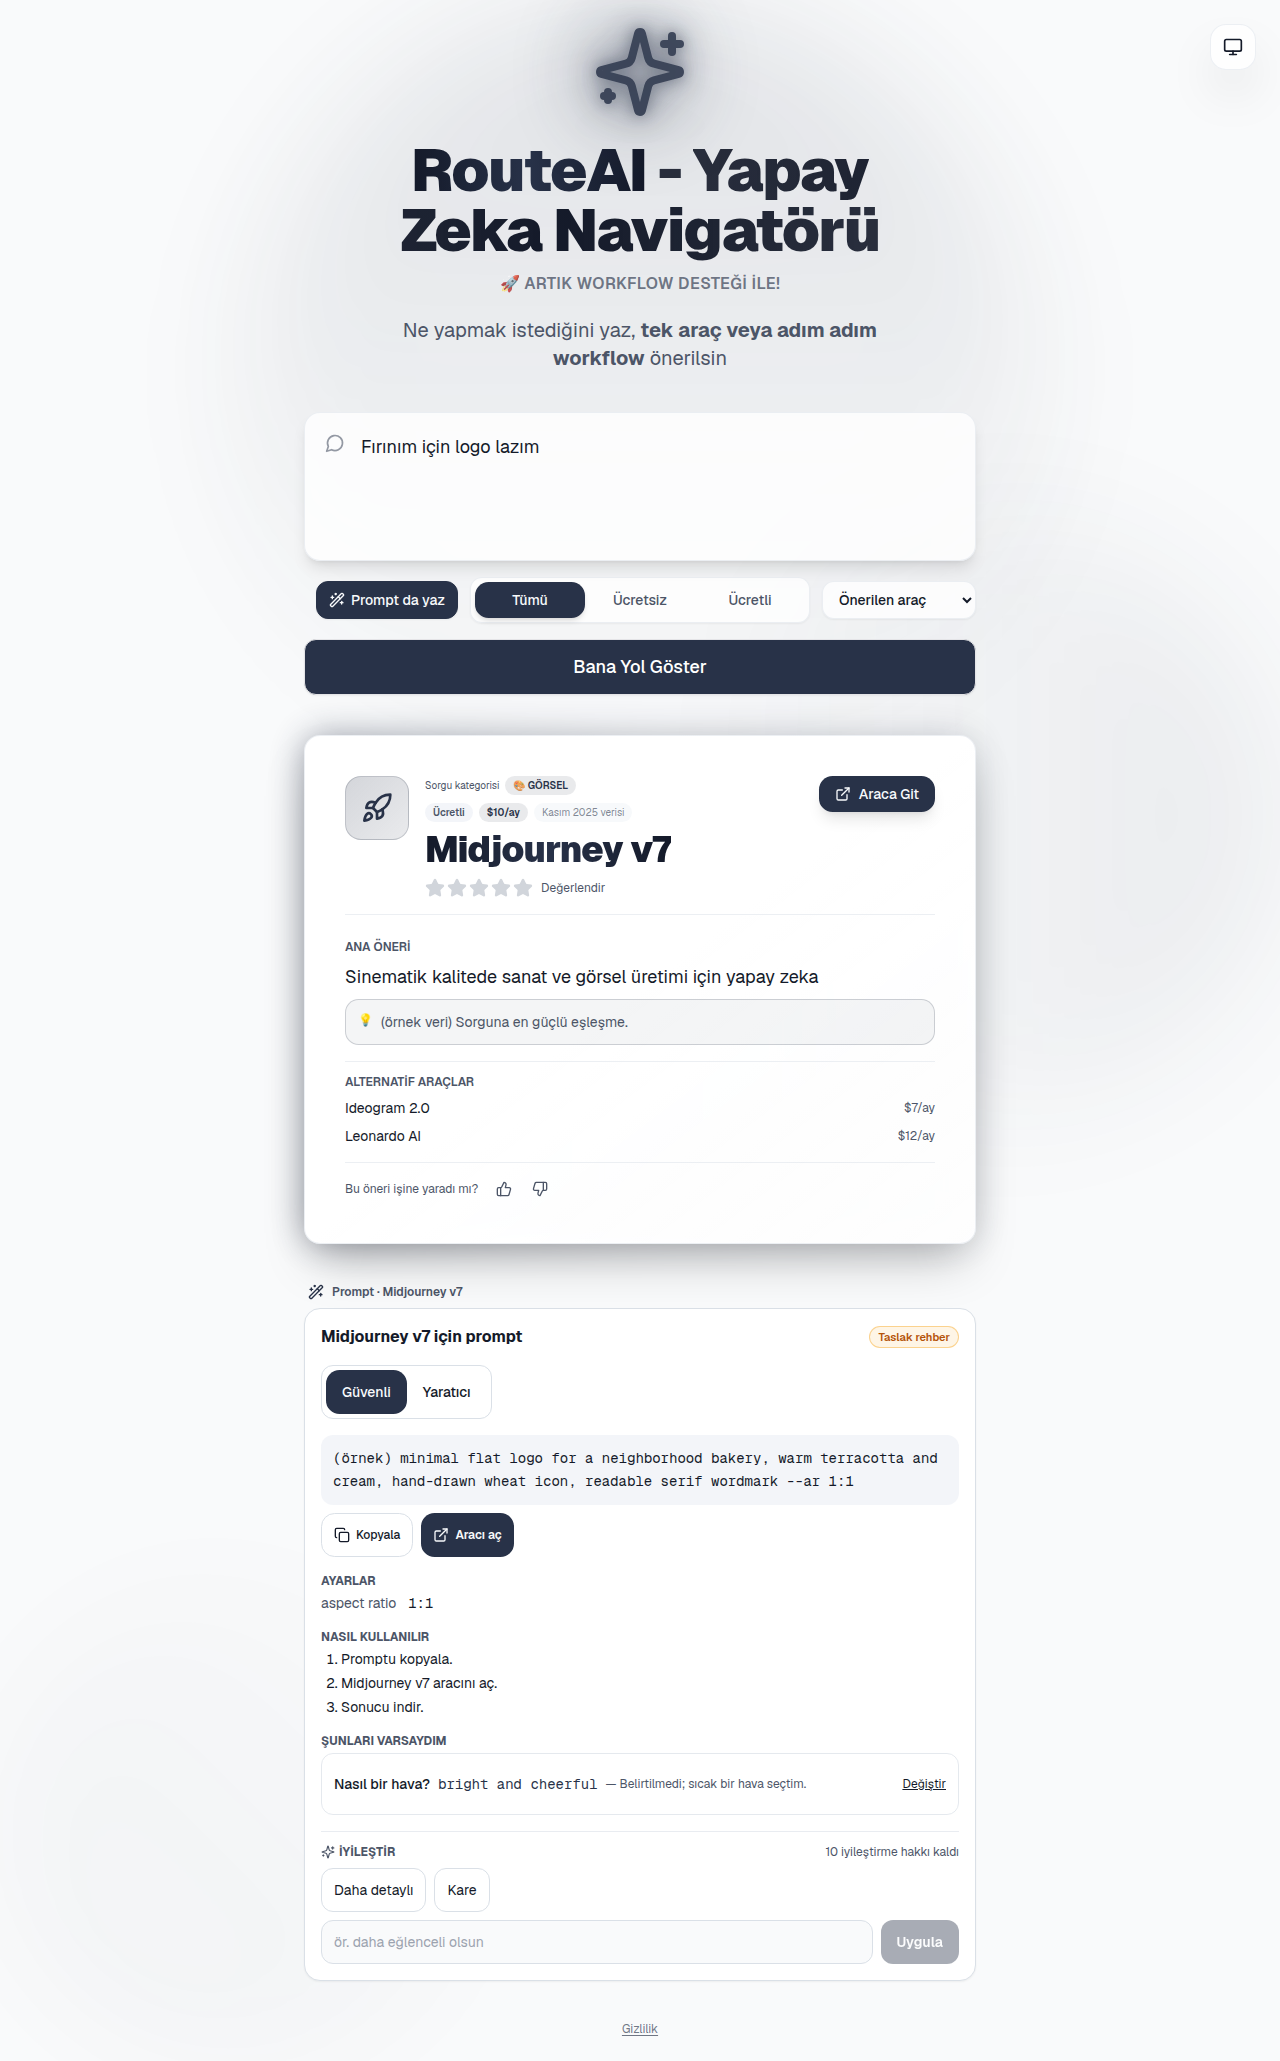
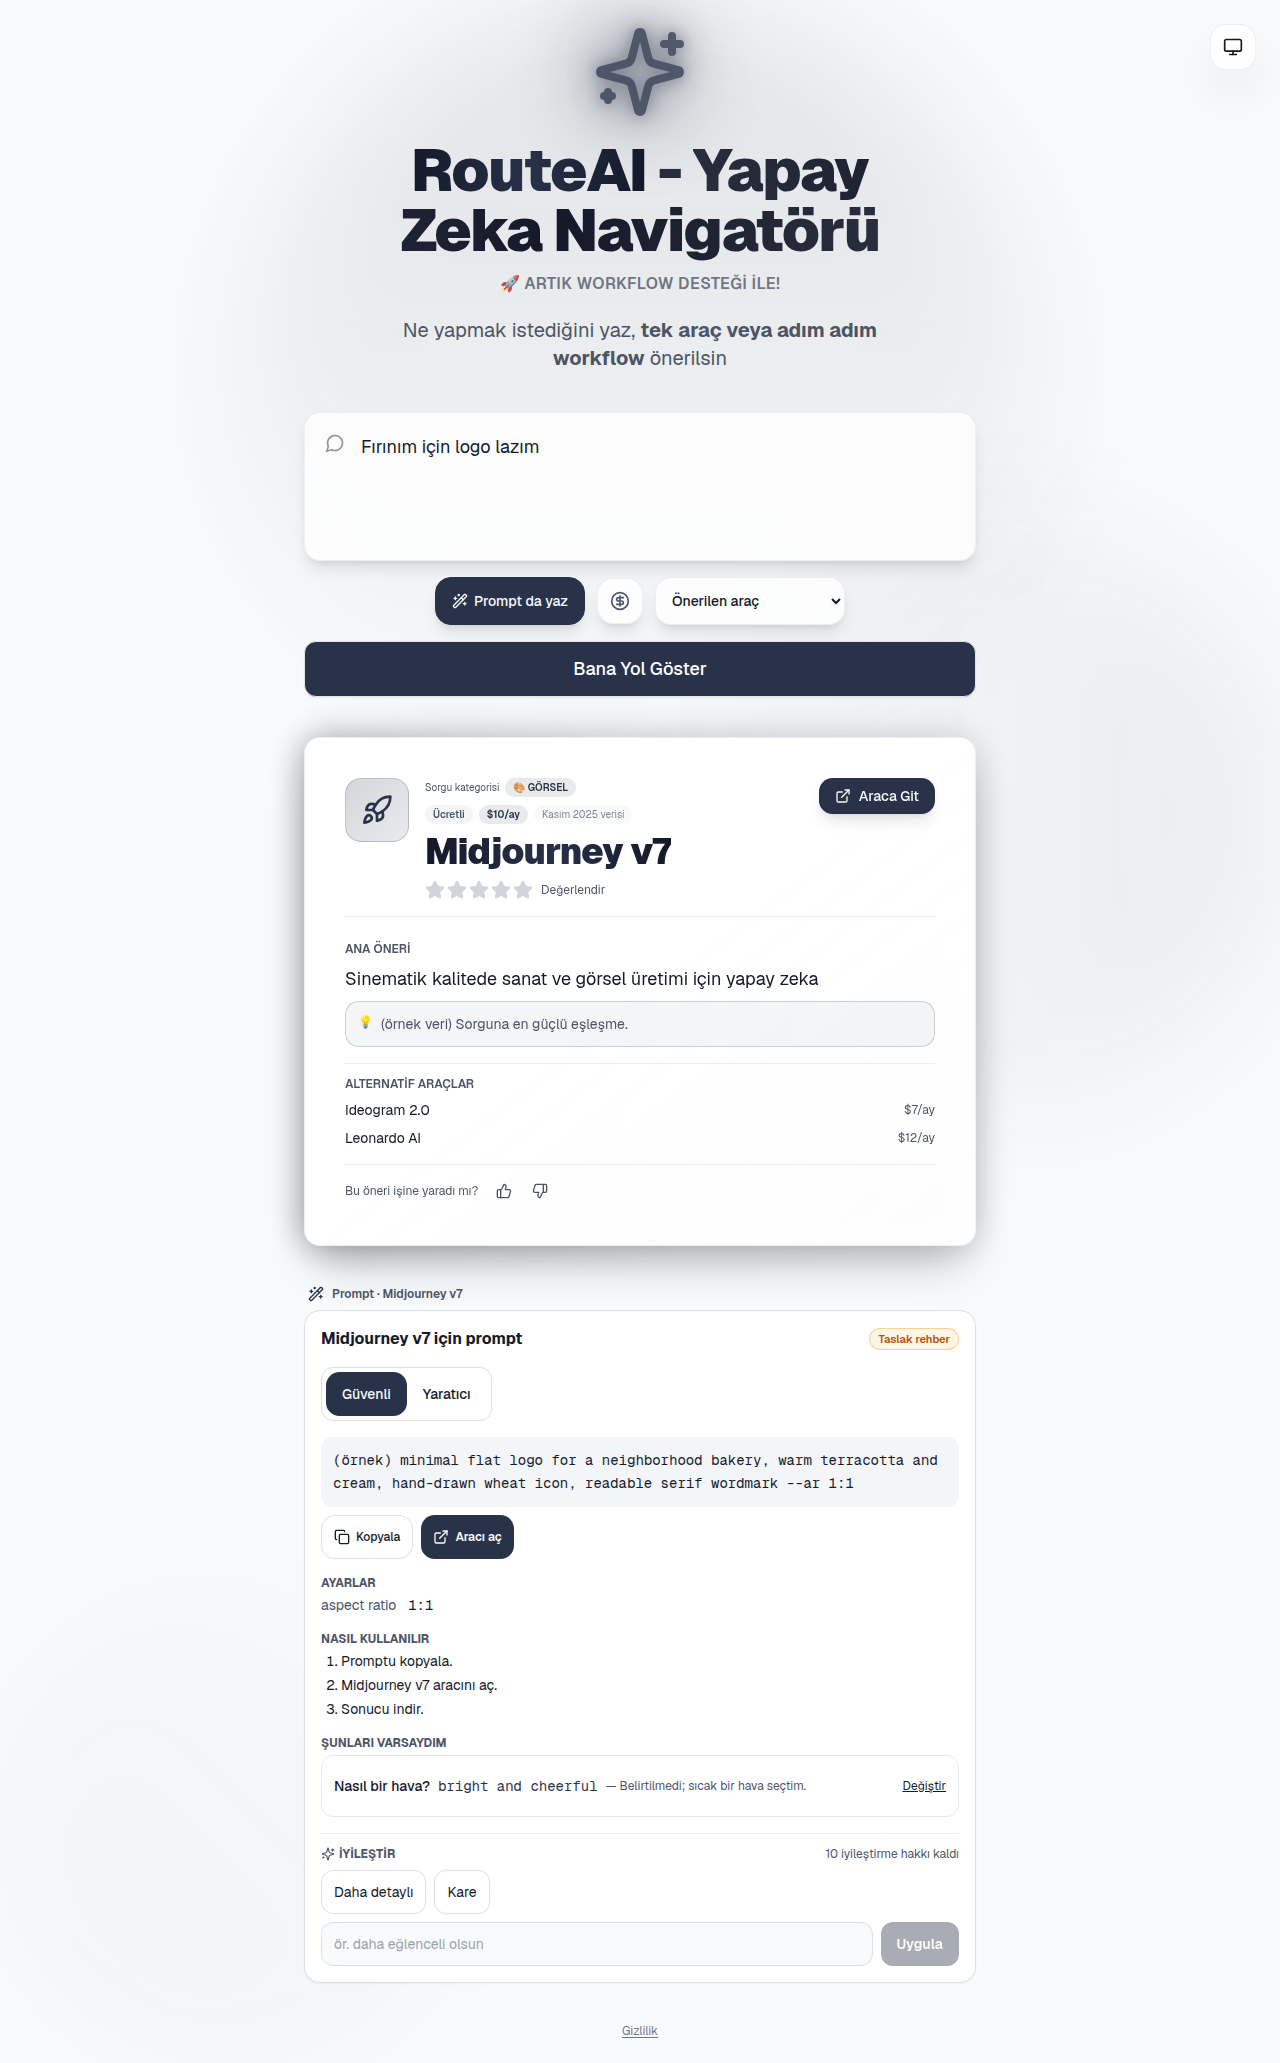
arayüz: fiyat filtresi tek küçük düğme (tema düğmesi gibi)
"Tümü / Ücretsiz / Ücretli" yazılı seçici yerine tek ikon düğmesi
(components/PricingToggle.tsx). Her tıklamada tümü -> ücretsiz -> ücretli:
CircleDollarSign / Gift / CreditCard ikonu, adı üzerine gelince görünür,
filtre açıkken düğme vurgulu. "Prompt da yaz" ve prompt aracı listesi aynı
satırda, aynı yükseklikte; telefonda da tek satır. /api/recommend'e giden
pricingFilter değişmedi.

Doğrulama: lint, 164 test, build; Playwright ile 360/1280 px, aydınlık ve
karanlık temada döngü ve gönderilen filtre değeri kontrol edildi, taşma yok.

Claude-Session: https://claude.ai/code/session_014oKBv4Q9WXMfNZpam3vT6c

diff --git a/components/HomeClient.tsx b/components/HomeClient.tsx
@@ -8,6 +8,7 @@ import ThemeToggle from "@/components/ThemeToggle"
 import WorkflowDisplay from "@/components/WorkflowDisplay"
 import SimpleRecommendationDisplay from "@/components/SimpleRecommendationDisplay"
 import PromptPanel from "@/components/PromptPanel"
+import PricingToggle, { type PricingFilter } from "@/components/PricingToggle"
 import { getDictionary } from "@/lib/i18n"
 import { AUTO_TOOL, promptToolNames, resolvePromptTarget } from "@/lib/promptBuilder/products"
 import type { ApiResponse, SimpleRecommendation, WorkflowRecommendation } from "@/lib/types"
@@ -59,7 +60,7 @@ function recommendedTools(response: ApiResponse | null): string[] {
 
 export default function HomeClient() {
   const [query, setQuery] = useState("")
-  const [pricingFilter, setPricingFilter] = useState<"all" | "free" | "paid">("all")
+  const [pricingFilter, setPricingFilter] = useState<PricingFilter>("all")
   const [response, setResponse] = useState<ApiResponse | null>(null)
   const [isLoading, setIsLoading] = useState(false)
   const [error, setError] = useState<string | null>(null)
@@ -368,42 +369,20 @@ export default function HomeClient() {
               </div>
             </div>
 
-            {/* Filtre satırı: solda prompt aç/kapa, ortada fiyat filtresi, sağda prompt aracı */}
-            <div className="grid grid-cols-2 sm:grid-cols-[1fr_auto_1fr] items-center gap-2 md:gap-3">
-            <div className="order-2 sm:order-1 flex justify-start sm:justify-end min-w-0">
+            {/* Filtre satırı: solda prompt aç/kapa, ortada fiyat düğmesi, sağda prompt aracı */}
+            <div className="flex flex-wrap items-center justify-center gap-1.5 sm:gap-2 md:gap-3">
               <button
                 type="button"
                 onClick={() => setPromptEnabled((v) => !v)}
                 aria-pressed={promptEnabled}
-                className={`inline-flex items-center gap-1.5 rounded-xl border px-3 py-2 text-xs md:text-sm font-medium shadow-sm transition-all duration-300 focus-visible:outline-none focus-visible:ring-2 focus-visible:ring-ring ${promptEnabled ? "bg-primary text-primary-foreground border-primary shadow-md" : "bg-card/80 dark:bg-card border-border/50 text-muted-foreground hover:text-foreground hover:bg-muted/30"}`}
+                className={`inline-flex h-11 md:h-12 items-center gap-1.5 rounded-2xl border px-2.5 sm:px-3 md:px-4 text-xs md:text-sm font-medium shadow-lg transition-all duration-300 hover:scale-105 active:scale-95 focus-visible:outline-none focus-visible:ring-2 focus-visible:ring-ring ${promptEnabled ? "bg-primary text-primary-foreground border-primary" : "bg-card/80 dark:bg-card border-border/50 text-muted-foreground hover:text-foreground hover:bg-muted/80"}`}
               >
                 <Wand2 className="w-4 h-4" aria-hidden />
                 {dict.prompt.toggle}
               </button>
-            </div>
 
-            <div className="order-1 sm:order-2 col-span-2 sm:col-span-1 flex bg-card/80 dark:bg-card border border-border/50 rounded-xl p-1 shadow-sm w-full max-w-[360px] sm:w-[300px] md:w-[340px] mx-auto">
-              <button
-                onClick={() => setPricingFilter("all")}
-                className={`flex-1 py-1.5 md:py-2 text-xs md:text-sm font-medium rounded-lg transition-all duration-300 ${pricingFilter === "all" ? "bg-primary text-primary-foreground shadow-md" : "text-muted-foreground hover:text-foreground hover:bg-muted/30"}`}
-              >
-                Tümü
-              </button>
-              <button
-                onClick={() => setPricingFilter("free")}
-                className={`flex-1 py-1.5 md:py-2 text-xs md:text-sm font-medium rounded-lg transition-all duration-300 ${pricingFilter === "free" ? "bg-primary text-primary-foreground shadow-md" : "text-muted-foreground hover:text-foreground hover:bg-muted/30"}`}
-              >
-                Ücretsiz
-              </button>
-              <button
-                onClick={() => setPricingFilter("paid")}
-                className={`flex-1 py-1.5 md:py-2 text-xs md:text-sm font-medium rounded-lg transition-all duration-300 ${pricingFilter === "paid" ? "bg-primary text-primary-foreground shadow-md" : "text-muted-foreground hover:text-foreground hover:bg-muted/30"}`}
-              >
-                Ücretli
-              </button>
-            </div>
+              <PricingToggle value={pricingFilter} onChange={setPricingFilter} />
 
-            <div className="order-3 flex justify-end sm:justify-start min-w-0">
               <select
                 value={promptTool}
                 onChange={(e) => {
@@ -412,14 +391,13 @@ export default function HomeClient() {
                 }}
                 aria-label={dict.prompt.toolLabel}
                 title={dict.prompt.toolLabel}
-                className={`w-full max-w-[200px] truncate rounded-xl border border-border/50 bg-card/80 dark:bg-card px-3 py-2 text-xs md:text-sm font-medium shadow-sm transition-all duration-300 focus:outline-none focus-visible:ring-2 focus-visible:ring-ring ${promptEnabled ? "text-foreground" : "text-muted-foreground"}`}
+                className={`h-11 md:h-12 w-[128px] sm:w-[160px] md:w-[190px] truncate rounded-2xl border border-border/50 bg-card/80 dark:bg-card px-2.5 sm:px-3 text-xs md:text-sm font-medium shadow-lg transition-all duration-300 focus:outline-none focus-visible:ring-2 focus-visible:ring-ring ${promptEnabled ? "text-foreground" : "text-muted-foreground"}`}
               >
                 <option value={AUTO_TOOL}>{dict.prompt.toolAuto}</option>
                 {PROMPT_TOOLS.map((name) => (
                   <option key={name} value={name}>{name}</option>
                 ))}
               </select>
-            </div>
             </div>
 
             <Button

diff --git a/components/PricingToggle.tsx b/components/PricingToggle.tsx
@@ -1,0 +1,44 @@
+"use client"
+
+// Fiyat filtresi: tek küçük düğme (tema düğmesiyle aynı görünüm). Her
+// tıklamada sırayla: tümü -> ücretsiz -> ücretli -> tümü. Filtre açıkken
+// (ücretsiz/ücretli) düğme vurgulu olur; adı üzerine gelince görünür.
+
+import { CircleDollarSign, CreditCard, Gift } from "lucide-react"
+
+export type PricingFilter = "all" | "free" | "paid"
+
+const NEXT: Record<PricingFilter, PricingFilter> = { all: "free", free: "paid", paid: "all" }
+
+const STATES: Record<PricingFilter, { label: string; Icon: typeof Gift }> = {
+  all: { label: "Tümü (ücretli + ücretsiz)", Icon: CircleDollarSign },
+  free: { label: "Sadece ücretsiz", Icon: Gift },
+  paid: { label: "Sadece ücretli", Icon: CreditCard },
+}
+
+export default function PricingToggle({ value, onChange }: { value: PricingFilter; onChange: (v: PricingFilter) => void }) {
+  const { label, Icon } = STATES[value]
+  const active = value !== "all"
+  return (
+    <button
+      type="button"
+      onClick={() => onChange(NEXT[value])}
+      aria-label={`Fiyat: ${label}`}
+      className={`group relative border rounded-2xl shadow-lg p-2.5 md:p-3
+                  hover:scale-105 active:scale-95 transition-all duration-300 ease-out
+                  focus-visible:outline-none focus-visible:ring-2 focus-visible:ring-ring
+                  ${active ? "bg-primary text-primary-foreground border-primary" : "bg-card/80 dark:bg-card backdrop-blur-lg border-border/50 text-muted-foreground hover:text-foreground hover:bg-muted/80"}`}
+    >
+      <Icon className="w-5 h-5 transition-transform duration-300 group-hover:rotate-12" aria-hidden />
+
+      {/* Tooltip (tema düğmesiyle aynı) */}
+      <span className="absolute -bottom-10 left-1/2 -translate-x-1/2 px-3 py-1.5
+                       bg-popover border border-border rounded-lg text-xs font-medium
+                       text-popover-foreground whitespace-nowrap z-20
+                       opacity-0 group-hover:opacity-100 group-focus-visible:opacity-100 scale-90 group-hover:scale-100
+                       transition-all duration-200 pointer-events-none shadow-lg">
+        {label}
+      </span>
+    </button>
+  )
+}

diff --git a/README.md b/README.md
@@ -2,8 +2,8 @@
 
 RouteAI bir **yapay zekâ navigatörü**: ne yapmak istediğini yazarsın, sana en uygun AI aracını ya da adım adım iş akışını (workflow) önerir.
 
-- **Ana sayfa (`/`), navigasyon:** Tek sorgu, fiyat filtresi (tümü / ücretsiz / ücretli), ana öneri + alternatifler ya da workflow. Arka uç `POST /api/recommend` (anahtar kelime + OpenAI niyet analizi, `lib/tools-database.json`). Türkçe.
-- **Prompt oluşturucu (aynı ekranda):** Fiyat filtresinin solunda **"Prompt da yaz"** düğmesi, sağında **prompt aracı** listesi var. Liste varsayılan olarak "Önerilen araç"; rehberi olan 17 araçtan biri de seçilebilir. Düğme açıkken "Bana Yol Göster" önerinin hemen altında promptu da yazar: arama metni `POST /api/prompt/start`'a gider, gerekirse tek bir soru kartı, sonra iki varyantlı prompt kartı (güvenli / yaratıcı) gelir. Kartta iyileştirme, varsayım değiştirme, sürüm geçmişi ve kopyalama var. Önerilen aracın rehberi yoksa bunu söyler ve listeden araç seçmeyi önerir. Sonuç varken düğmeyi açmak ya da araç değiştirmek aramayı tekrarlamadan sadece promptu üretir; aynı arama ve araç için üretilen prompt tekrar üretilmez.
+- **Ana sayfa (`/`), navigasyon:** Tek sorgu, fiyat düğmesi (tek küçük düğme; her tıklamada tümü → ücretsiz → ücretli, tema düğmesiyle aynı görünüm), ana öneri + alternatifler ya da workflow. Arka uç `POST /api/recommend` (anahtar kelime + OpenAI niyet analizi, `lib/tools-database.json`). Türkçe.
+- **Prompt oluşturucu (aynı ekranda):** Fiyat düğmesinin solunda **"Prompt da yaz"** düğmesi, sağında **prompt aracı** listesi var. Liste varsayılan olarak "Önerilen araç"; rehberi olan 17 araçtan biri de seçilebilir. Düğme açıkken "Bana Yol Göster" önerinin hemen altında promptu da yazar: arama metni `POST /api/prompt/start`'a gider, gerekirse tek bir soru kartı, sonra iki varyantlı prompt kartı (güvenli / yaratıcı) gelir. Kartta iyileştirme, varsayım değiştirme, sürüm geçmişi ve kopyalama var. Önerilen aracın rehberi yoksa bunu söyler ve listeden araç seçmeyi önerir. Sonuç varken düğmeyi açmak ya da araç değiştirmek aramayı tekrarlamadan sadece promptu üretir; aynı arama ve araç için üretilen prompt tekrar üretilmez.
 - **Sohbet modu yok:** 2026-09-25'te siteden kaldırıldı (`/chat`, `/api/chat`). Ajan kodu (`lib/agent`) v2 eval'i için repoda duruyor.
 
 `/classic` adresi kalıcı olarak `/`'a yönlenir.

diff --git a/docs/ROADMAP-v2.md b/docs/ROADMAP-v2.md
@@ -7,7 +7,8 @@ Kapsam dışı (lansman sonrası): hesaplar, ödeme, sponsorlu listeleme, mobil 
 ## Ürün kararı (2026-09-25, Ferit)
 RouteAI bir **navigasyon** aracı, sohbet botu değil. Site **tek ekran**:
 - Ana sayfa (`/`) eski navigasyon arayüzü (`components/HomeClient.tsx`, `/api/recommend`). Görünümü korunur.
-- Prompt oluşturucu aynı ekranda: fiyat filtresinin solunda "Prompt da yaz" düğmesi, sağında prompt aracı listesi ("Önerilen araç" ya da rehberi olan 17 araçtan biri, `data/prompt-products.json`). Açıkken prompt önerinin altında çıkar (`components/PromptPanel.tsx` → `POST /api/prompt/start`).
+- Fiyat filtresi tek küçük düğme (`components/PricingToggle.tsx`; tümü → ücretsiz → ücretli, tema düğmesiyle aynı görünüm).
+- Prompt oluşturucu aynı ekranda: fiyat düğmesinin solunda "Prompt da yaz" düğmesi, sağında prompt aracı listesi ("Önerilen araç" ya da rehberi olan 17 araçtan biri, `data/prompt-products.json`). Açıkken prompt önerinin altında çıkar (`components/PromptPanel.tsx` → `POST /api/prompt/start`).
 - Sohbet modu kaldırıldı (`/chat`, `/api/chat`, `ChatShell`). `lib/agent` v2 eval'i için repoda.
 - `/classic` → `/` kalıcı yönlendirme.
 Aşağıdaki "Ürün" ve "Mimari" tanımları sohbet ajanı dönemine ait; ajan şu an sitede yok.
